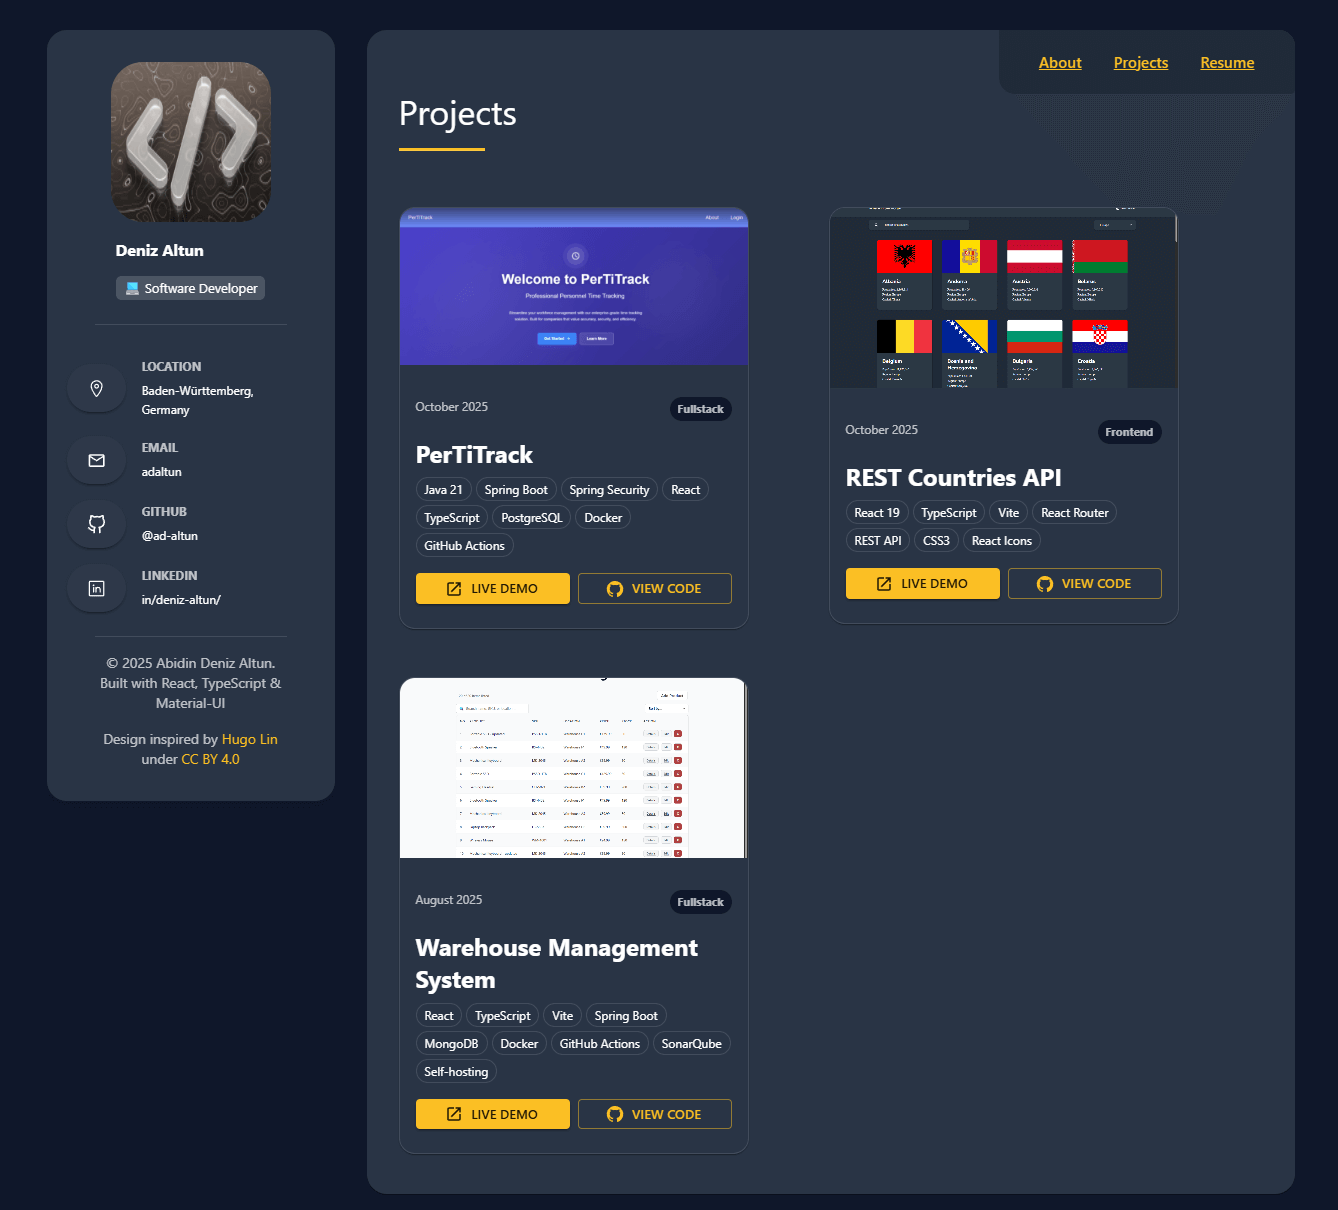
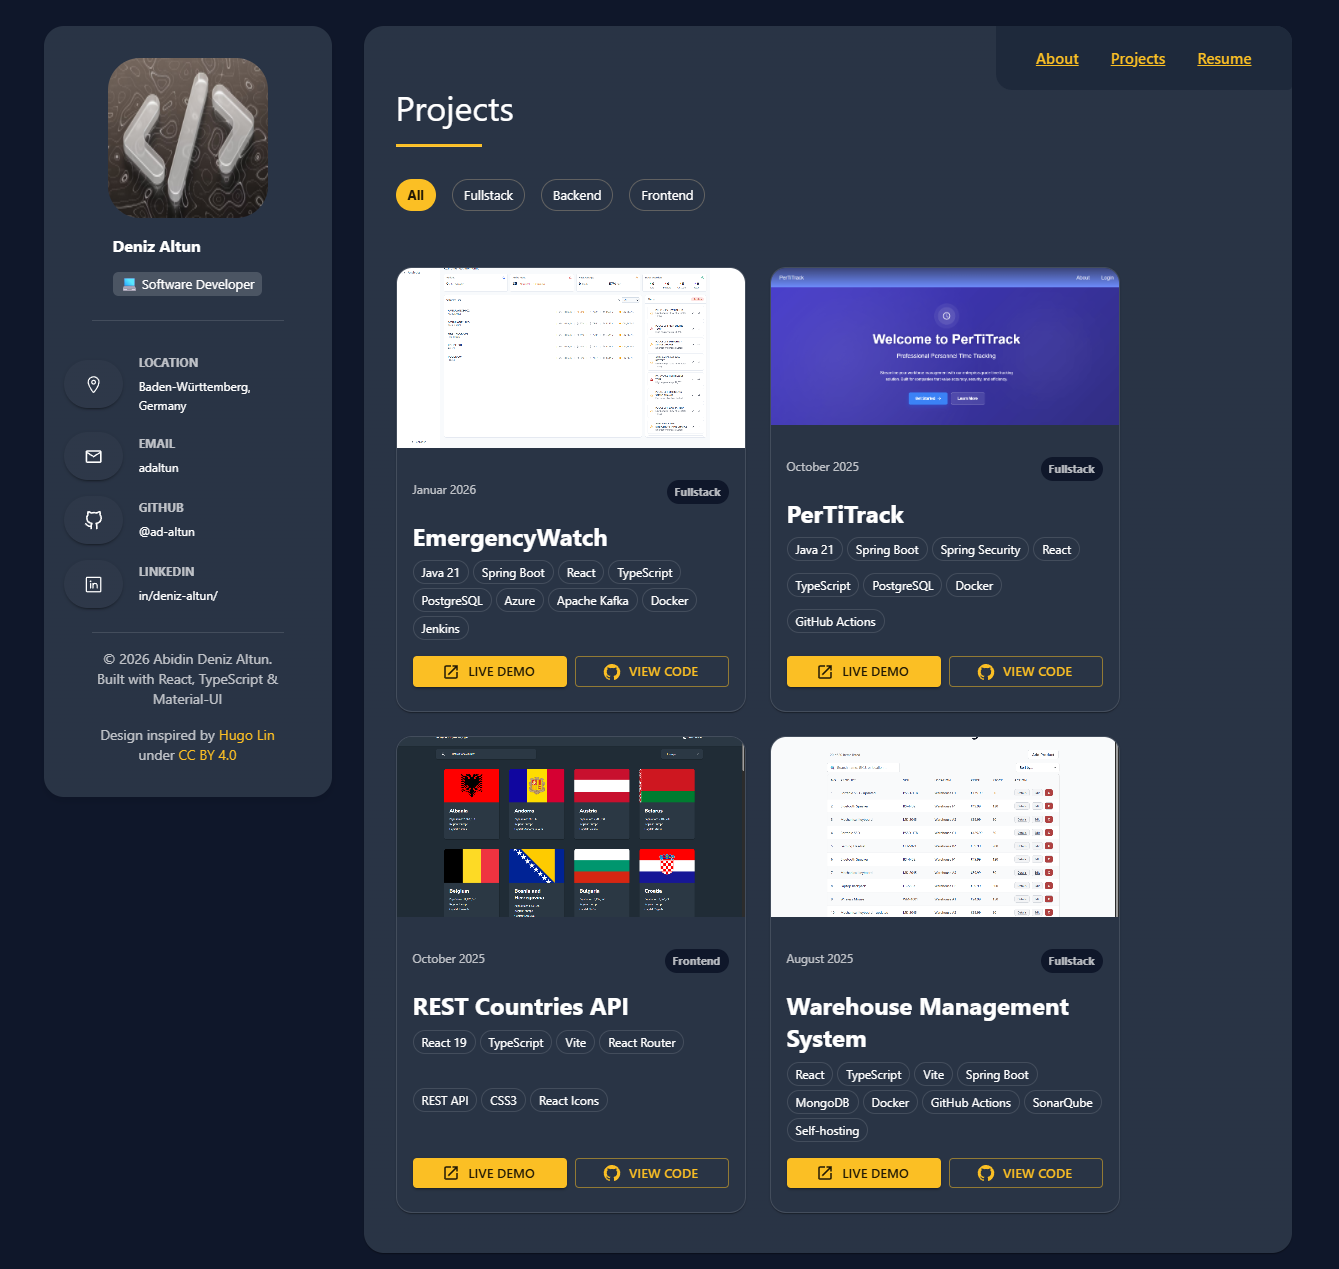
feat: implement project type filtering and restructure demoUrl to support disabled state - Add filter chips (All, Fullstack, Backend, Frontend) to Projects page - Implement state management for selected filter type - Change demoUrl from string to object with url and disabled properties - Add proper 

Changed region(s): [[0.0306, 0.0, 0.8886, 0.9479], [0.2758, 0.0, 0.7354, 0.0306], [0.7661, 0.0306, 0.9499, 0.0612]]

diff --git a/frontend/src/components/Projects.tsx b/frontend/src/components/Projects.tsx
@@ -3,16 +3,26 @@ import {
     Container,
     Typography,
     Grid,
-    Divider,
+    Divider, Chip, Stack,
 } from '@mui/material';
 
 import ProjectCard from "./ProjectCard.tsx";
 import { getAllProjects } from "../data/projects/projectIndex.ts";
+import { useState } from "react";
+import type { ProjectType } from "../data/projectTypes.ts";
 
 
 export const Projects = () => {
+    const [ selectedType, setSelectedType ] = useState<ProjectType | 'All'>('All');
+    const allProjects = getAllProjects();
 
-    const projects = getAllProjects();
+    // filter projects based on selected type
+    const projects = selectedType === 'All' ?
+        allProjects :
+        allProjects.filter(project => project.type === selectedType);
+
+    // Get unique project types from existing projects
+    const projectTypes: Array<ProjectType | 'All'> = ['All', 'Fullstack', 'Backend', 'Frontend'];
 
     return (
         <Box sx={{ py: 3, px: 1, }}>
@@ -34,18 +44,45 @@ export const Projects = () => {
                 </Box>
                 <Divider sx={{ mb: 4, width: '10%', height: '3px', bgcolor: 'primary.main' }} />
 
+                {/* Filter Chips */}
+                <Stack
+                    direction="row"
+                    spacing={1}
+                    sx={{
+                        mb: 4,
+                        flexWrap: 'wrap',
+                        gap: 1,
+                    }}
+                >
+                    {projectTypes.map((type) => (
+                        <Chip
+                            key={type}
+                            label={type}
+                            onClick={() => setSelectedType(type)}
+                            color={selectedType === type ? 'primary' : 'default'}
+                            variant={selectedType === type ? 'filled' : 'outlined'}
+                            sx={{
+                                fontWeight: selectedType === type ? 'bold' : 'normal',
+                                cursor: 'pointer',
+                                transition: 'all 0.2s ease-in-out',
+                                '&:hover': {
+                                    transform: 'translateY(-2px)',
+                                    boxShadow: 2,
+                                },
+                            }}
+                        />
+                    ))}
+                </Stack>
+
                 {/* Projects Grid */}
                 <Grid container spacing={3}
                       sx={{
-                          display: 'flex', justifyContent: { xs:'center', lg: 'flex-start' },
-                          alignItems: 'flex-start', gap: '3rem 5rem',
-                          // mt: '3.5rem',
                           pt: { xs: 2, lg: 3}
                 }}
                 >
                     {projects.map((project) => (
-                        <Grid sx={{ xs: 12, sm:6, lg: 3, }}
-                              key={project.id}>
+                        <Grid key={project.id}
+                              sx={{ xs:12, sm:6, lg:3, display: 'flex' }}>
                             <ProjectCard {...project} />
                         </Grid>
                     ))}

diff --git a/frontend/src/components/ProjectCard.tsx b/frontend/src/components/ProjectCard.tsx
@@ -17,7 +17,10 @@ export interface ProjectCardProps {
     type: "All" | "Frontend" | "Backend" | "Fullstack";
     image: string;
     technologies: string[];
-    demoUrl?: string;
+    demoUrl?: {
+        url: string,
+        disabled?: boolean
+    };
     githubUrl?: string;
     description?: string;
 }
@@ -122,8 +125,15 @@ export default function ProjectCard( {
                             variant="contained"
                             startIcon={ <Launch/> }
                             size="small"
-                            onClick={ ( e ) => handleButtonClick(e, demoUrl) }
-                            sx={ { flex: 1 } }
+                            disabled = {demoUrl.disabled}
+                            onClick={ ( e ) => handleButtonClick(e, demoUrl?.url) }
+                            sx={{
+                                flex: 1,
+                                "&.Mui-disabled": {
+                                    cursor: 'not-allowed',
+                                    pointerEvents: 'auto'
+                                }
+                            }}
                         >
                             Live Demo
                         </Button>

diff --git a/frontend/src/data/projects/projectIndex.ts b/frontend/src/data/projects/projectIndex.ts
@@ -1,7 +1,8 @@
-import { type ProjectData } from '../projectTypes.ts';
+import { type ProjectData } from '../projectTypes';
 import { pertitrackProjectData } from './pertitrack';
-import { restCountriesProjectData } from "./restCountries.ts";
-import { warehouseProjectData } from "./warehouse.ts";
+import { restCountriesProjectData } from "./restCountries";
+import { warehouseProjectData } from "./warehouse";
+import { emergencywatchProjectData } from "./emergencywatch"
 
 /**
  * Central registry of all portfolio projects
@@ -11,6 +12,7 @@ import { warehouseProjectData } from "./warehouse.ts";
  * 3. Add it to the projectsRegistry object
  */
 export const projectsRegistry: Record<string, ProjectData> = {
+    emergencywatch: emergencywatchProjectData,
     pertitrack: pertitrackProjectData,
     restCountries: restCountriesProjectData,
     warehouse: warehouseProjectData,

diff --git a/frontend/src/data/projects/warehouse.ts b/frontend/src/data/projects/warehouse.ts
@@ -30,7 +30,10 @@ export const warehouseProjectData: ProjectData = {
     ],
 
     // Optional: Live demo URL
-    demoUrl: 'https://warehouse.denizaltun.de/',
+    demoUrl: {
+        url: 'https://warehouse.denizaltun.de/',
+        disabled: false
+    },
 
     // GitHub repository URL
     githubUrl: 'https://github.com/ad-altun/inventory-control-crud-app',

diff --git a/frontend/src/data/projects/restCountries.ts b/frontend/src/data/projects/restCountries.ts
@@ -28,7 +28,10 @@ export const restCountriesProjectData: ProjectData = {
     ],
 
     // Live demo URL
-    demoUrl: 'https://rest-countries.denizaltun.de/',
+    demoUrl: {
+        url: 'https://rest-countries.denizaltun.de/',
+        disabled: false
+    },
 
     // GitHub repository URL
     githubUrl: 'https://github.com/ad-altun/rest-countries-api/',

diff --git a/frontend/src/data/projects/pertitrack.ts b/frontend/src/data/projects/pertitrack.ts
@@ -29,7 +29,10 @@ export const pertitrackProjectData: ProjectData = {
     ],
 
     // Live demo URL
-    demoUrl: 'https://pertitrack.denizaltun.de/',
+    demoUrl: {
+        url: 'https://pertitrack.denizaltun.de/',
+        disabled: false
+    },
 
     // GitHub repository URL
     githubUrl: 'https://github.com/ad-altun/PerTiTrack',

diff --git a/frontend/src/data/projectTypes.ts b/frontend/src/data/projectTypes.ts
@@ -7,7 +7,10 @@ export interface ProjectData {
     type: ProjectType;
     image: string;
     technologies: string[];
-    demoUrl?: string;
+    demoUrl?: {
+        url: string,
+        disabled?: boolean,
+    };
     githubUrl?: string;
     description: string;
     readme: string;
